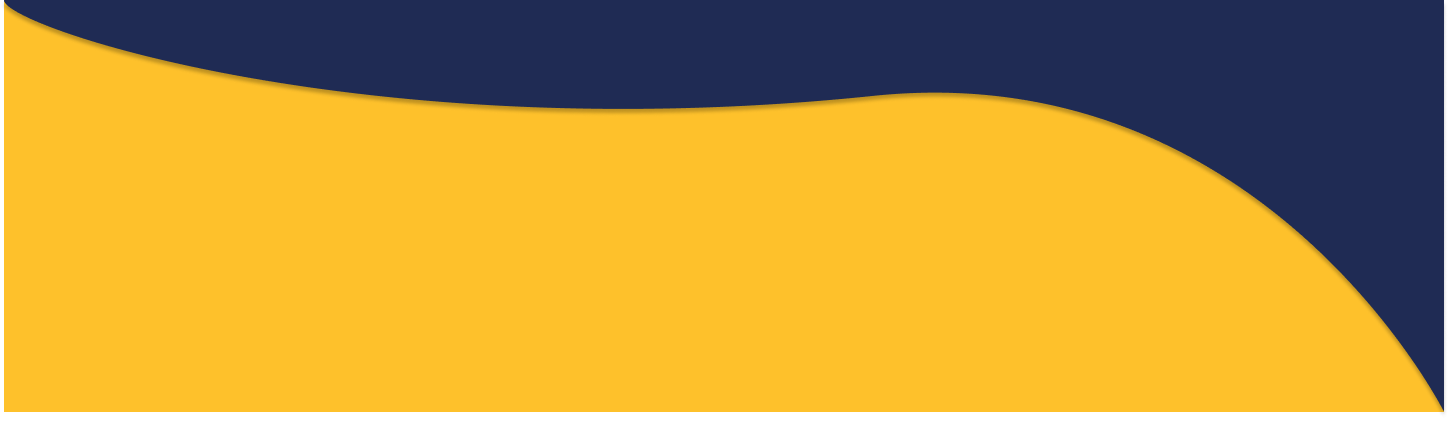
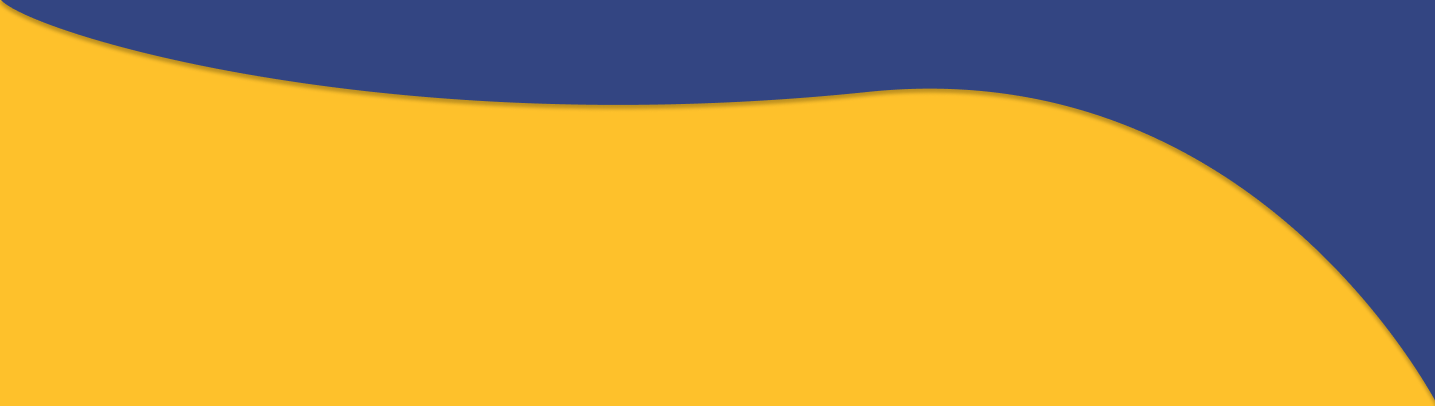
footer finalizado

diff --git a/src/components/AppFooter.vue b/src/components/AppFooter.vue
@@ -4,21 +4,25 @@ import { RouterLink } from 'vue-router'
 
 <template>
   <footer>
-    <div class="logo">
-      <img src="/public/logo.png" alt="logo" />
-      <span>Abastece Aí</span>
-    </div>
-    <div class="links">
-      <h1>Navegação</h1>
-      <RouterLink to="/">Início</RouterLink>
-      <RouterLink to="/mapa">Mapa</RouterLink>
-      <RouterLink to="/postos">Postos</RouterLink>
-      <RouterLink to="/sobre">Sobre Nós</RouterLink>
-    </div>
-    <div class="links">
-      <h1>Contato</h1>
-      <a href="https://github.com/abasteceai" target="_blank">Github</a>
-      <a href="mailto:abasteceaipostos@gmail.com">Email</a>
+    <div class="footer">
+      <div class="logo">
+        <img src="/logoMaior.png" alt="logo" />
+        <span>Abastece Aí</span>
+      </div>
+      <div class="links">
+        <h1>NAVEGAÇÃO</h1>
+        <RouterLink to="/">Início</RouterLink>
+        <RouterLink to="/mapa">Mapa</RouterLink>
+        <RouterLink to="/postos">Postos</RouterLink>
+        <RouterLink to="/sobre">Sobre Nós</RouterLink>
+      </div>
+      <div class="links">
+        <h1>CONTATO</h1>
+        <a href="mailto:abasteceaipostos@gmail.com">Email</a>
+        <a href="https://github.com/abasteceai" target="_blank">Github</a>
+        <a href="https://wa.me/5547988518536" target="_blank">WhatsApp</a>
+        <a href="mailto:abasteceaipostos@gmail.com?subject=Reportar%20erro&body=Descreva%20o%20problema%20encontrado%3A%0A%0ANome%20do%20posto%3A%0APre%C3%A7o%20ou%20localiza%C3%A7%C3%A3o%20incorreta%3A%0A">Reporte um erro</a>
+      </div>
     </div>
   </footer>
 </template>
@@ -26,9 +30,67 @@ import { RouterLink } from 'vue-router'
 <style scoped>
 footer {
   display: flex;
-  justify-content: space-between;
-  align-items: center;
+  justify-content: left;
   padding: 20px;
-  background-image: url('/public/fundoFooter.png'); 
+  background-image: url('/fundoFooter.png');
+  background-size: cover;
+  background-position: top;
+  background-repeat: no-repeat;
+  min-height: 380px;
+  width: 100%;
+}
+
+.footer {
+  width: 100%;
+  max-width: 1200px;
+  display: flex;
+  justify-content: space-between;
+  align-items: flex-end;
+}
+
+.logo {
+  display: flex;
+  flex-direction: column;
+  align-items: center;
+  gap: 10px;
+  margin: 0 0 20px 80px
+}
+
+.logo img {
+  width: 150px;
+  height: 150px;
+}
+
+.logo span {
+  color: #fff;
+  font-weight: 700;
+  font-size: 30px;
+}
+
+.links {
+  padding: 100px 0 0;
+  display: flex;
+  flex-direction: column;
+  gap: 10px;
+}
+
+.links h1 {
+  font-size: 30px;
+  color: #000000;
+  margin-bottom: 4px;
+  border-bottom: 6px solid #1F2B54;
+  padding-bottom: 6px;
+  width: fit-content;
+}
+
+.links a {
+  color: #000000;
+  text-decoration: none;
+  font-size: 20px;
+  font-weight: 400;
+}
+
+.links a:hover {
+  text-decoration: underline;
 }
 </style>

diff --git a/src/assets/main.css b/src/assets/main.css
@@ -19,3 +19,8 @@ p{
 router-link{
     text-decoration: none;
 }
+
+html, body {
+  width: 100%;
+  min-height: 100%;
+}
